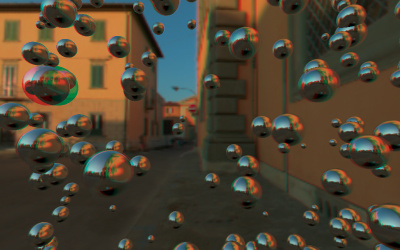
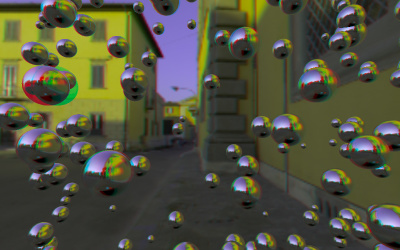
AnaglyphEffect: Use Dubois matrices.

diff --git a/examples/js/effects/AnaglyphEffect.js b/examples/js/effects/AnaglyphEffect.js
@@ -1,24 +1,17 @@
 THREE.AnaglyphEffect = function ( renderer, width, height ) {
 
-	// Matrices generated with angler.js https://github.com/tschw/angler.js/
-	// (in column-major element order, as accepted by WebGL)
+	// Dubois matrices from https://citeseerx.ist.psu.edu/viewdoc/download?doi=10.1.1.7.6968&rep=rep1&type=pdf#page=4
 
 	this.colorMatrixLeft = new THREE.Matrix3().fromArray( [
-
-		1.0671679973602295, - 0.0016435992438346148, 0.0001777536963345483, // r out
-		- 0.028107794001698494, - 0.00019593400065787137, - 0.0002875397040043026, // g out
-		- 0.04279090091586113, 0.000015809757314855233, - 0.00024287120322696865 // b out
-
+		0.456100, - 0.0400822, - 0.0152161,
+		0.500484, - 0.0378246, - 0.0205971,
+		0.176381, - 0.0157589, - 0.00546856
 	] );
 
-	//		red						green 						blue  						in
-
 	this.colorMatrixRight = new THREE.Matrix3().fromArray( [
-
-		- 0.0355340838432312, - 0.06440307199954987, 0.018319187685847282, // r out
-		- 0.10269022732973099, 0.8079727292060852, - 0.04835830628871918, // g out
-		0.0001224992738571018, - 0.009558862075209618, 0.567823588848114 // b out
-
+		- 0.0434706, 0.378476, - 0.0721527,
+		- 0.0879388, 0.73364, - 0.112961,
+		- 0.00155529, - 0.0184503, 1.2264
 	] );
 
 	var _camera = new THREE.OrthographicCamera( - 1, 1, 1, - 1, 0, 1 );

diff --git a/examples/jsm/effects/AnaglyphEffect.js b/examples/jsm/effects/AnaglyphEffect.js
@@ -14,25 +14,18 @@ import {
 
 var AnaglyphEffect = function ( renderer, width, height ) {
 
-	// Matrices generated with angler.js https://github.com/tschw/angler.js/
-	// (in column-major element order, as accepted by WebGL)
+	// Dubois matrices from https://citeseerx.ist.psu.edu/viewdoc/download?doi=10.1.1.7.6968&rep=rep1&type=pdf#page=4
 
 	this.colorMatrixLeft = new Matrix3().fromArray( [
-
-		1.0671679973602295, - 0.0016435992438346148, 0.0001777536963345483, // r out
-		- 0.028107794001698494, - 0.00019593400065787137, - 0.0002875397040043026, // g out
-		- 0.04279090091586113, 0.000015809757314855233, - 0.00024287120322696865 // b out
-
+		0.456100, - 0.0400822, - 0.0152161,
+		0.500484, - 0.0378246, - 0.0205971,
+		0.176381, - 0.0157589, - 0.00546856
 	] );
 
-	//		red						green 						blue  						in
-
 	this.colorMatrixRight = new Matrix3().fromArray( [
-
-		- 0.0355340838432312, - 0.06440307199954987, 0.018319187685847282, // r out
-		- 0.10269022732973099, 0.8079727292060852, - 0.04835830628871918, // g out
-		0.0001224992738571018, - 0.009558862075209618, 0.567823588848114 // b out
-
+		- 0.0434706, 0.378476, - 0.0721527,
+		- 0.0879388, 0.73364, - 0.112961,
+		- 0.00155529, - 0.0184503, 1.2264
 	] );
 
 	var _camera = new OrthographicCamera( - 1, 1, 1, - 1, 0, 1 );
